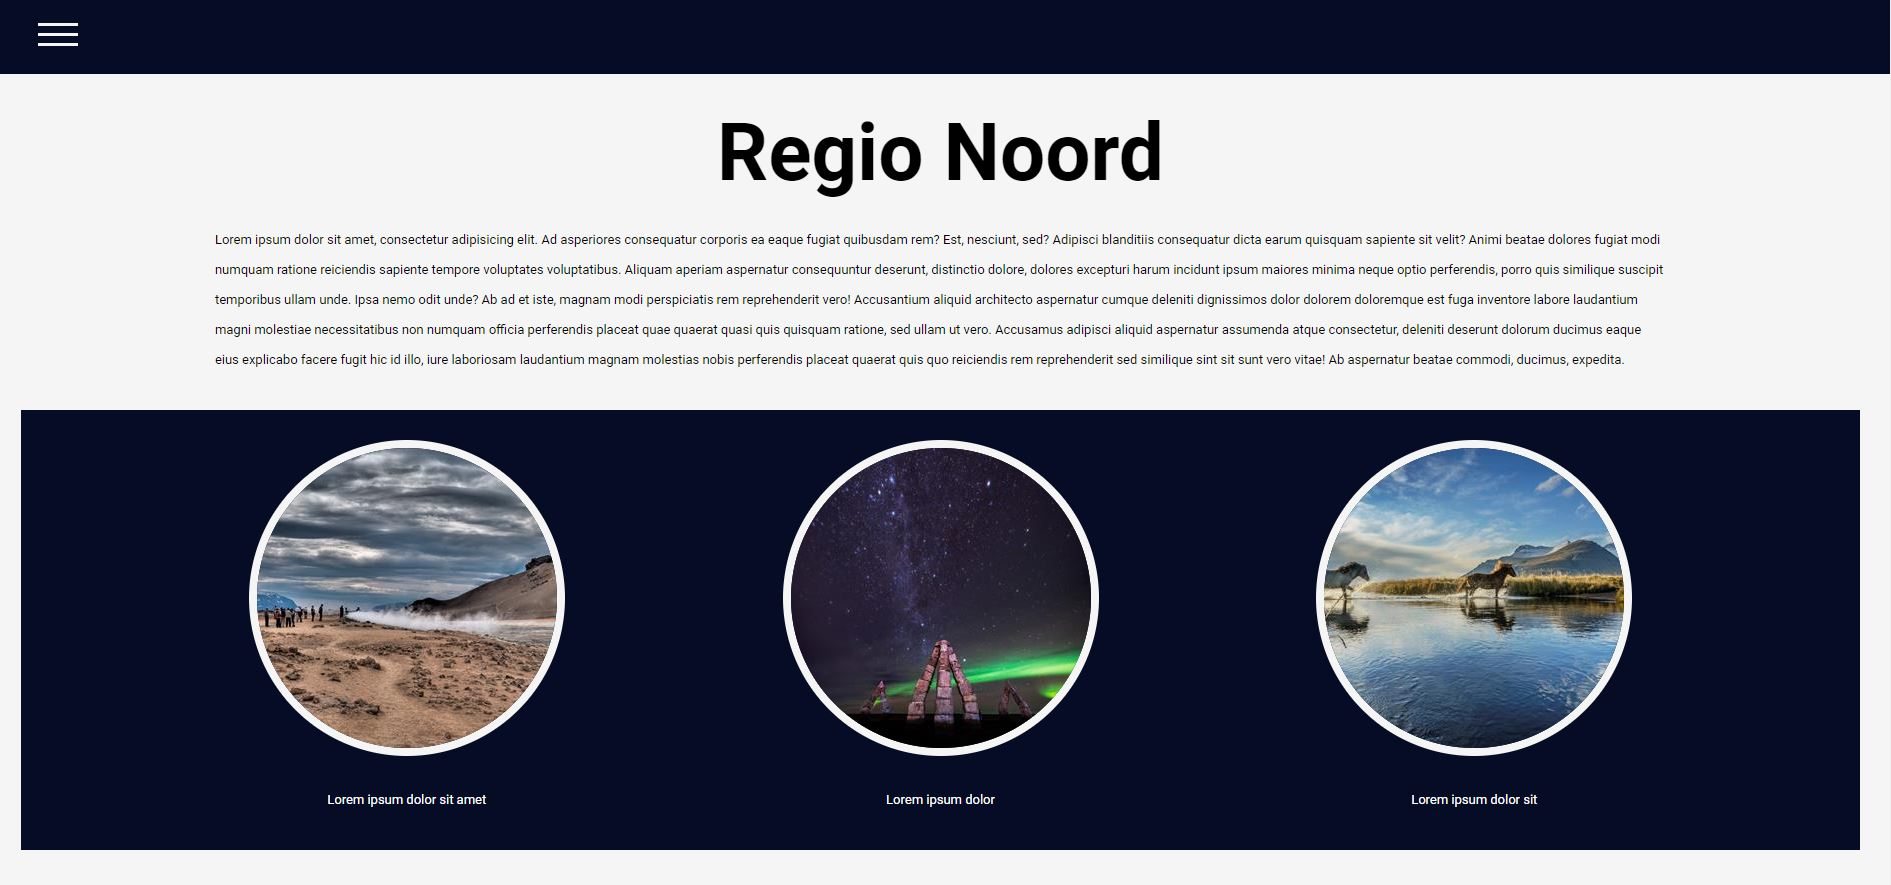
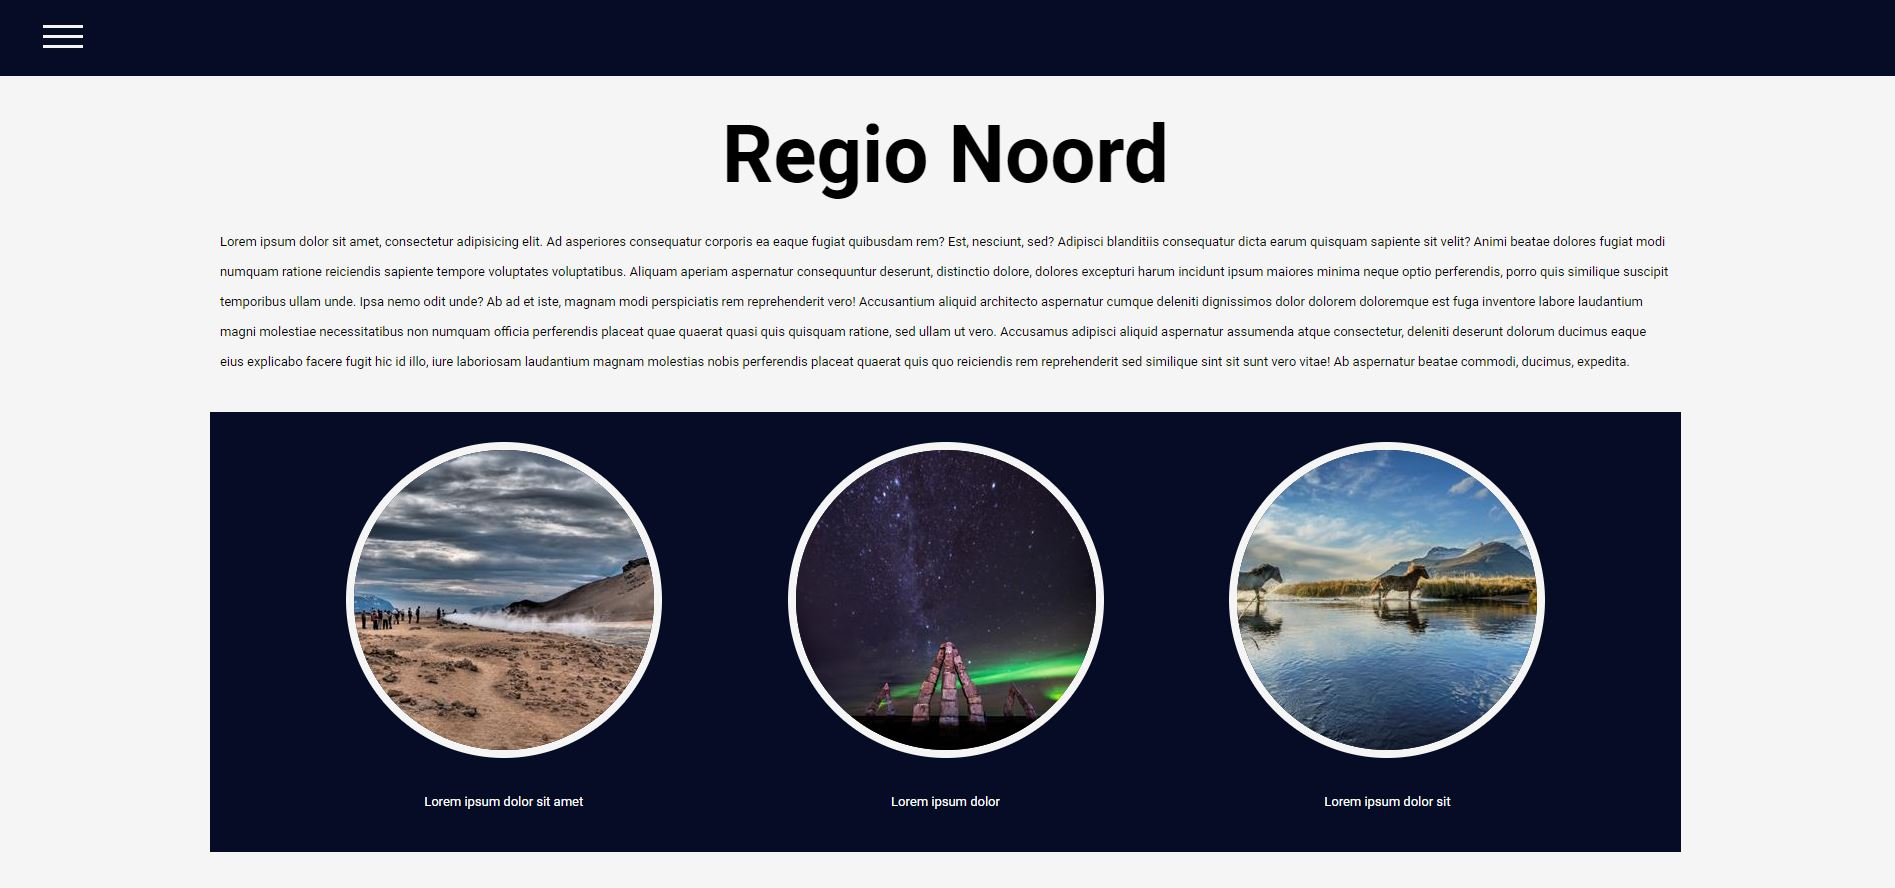
readMe update

diff --git a/src/pages/noord/North.css b/src/pages/noord/North.css
@@ -13,7 +13,7 @@
     display: flex;
     align-items: center;
     justify-content: space-evenly;
-    width: 100%;
+    width: 80%;
     flex-wrap: wrap;
     flex-grow: 1;
     background-color: #060b26;
